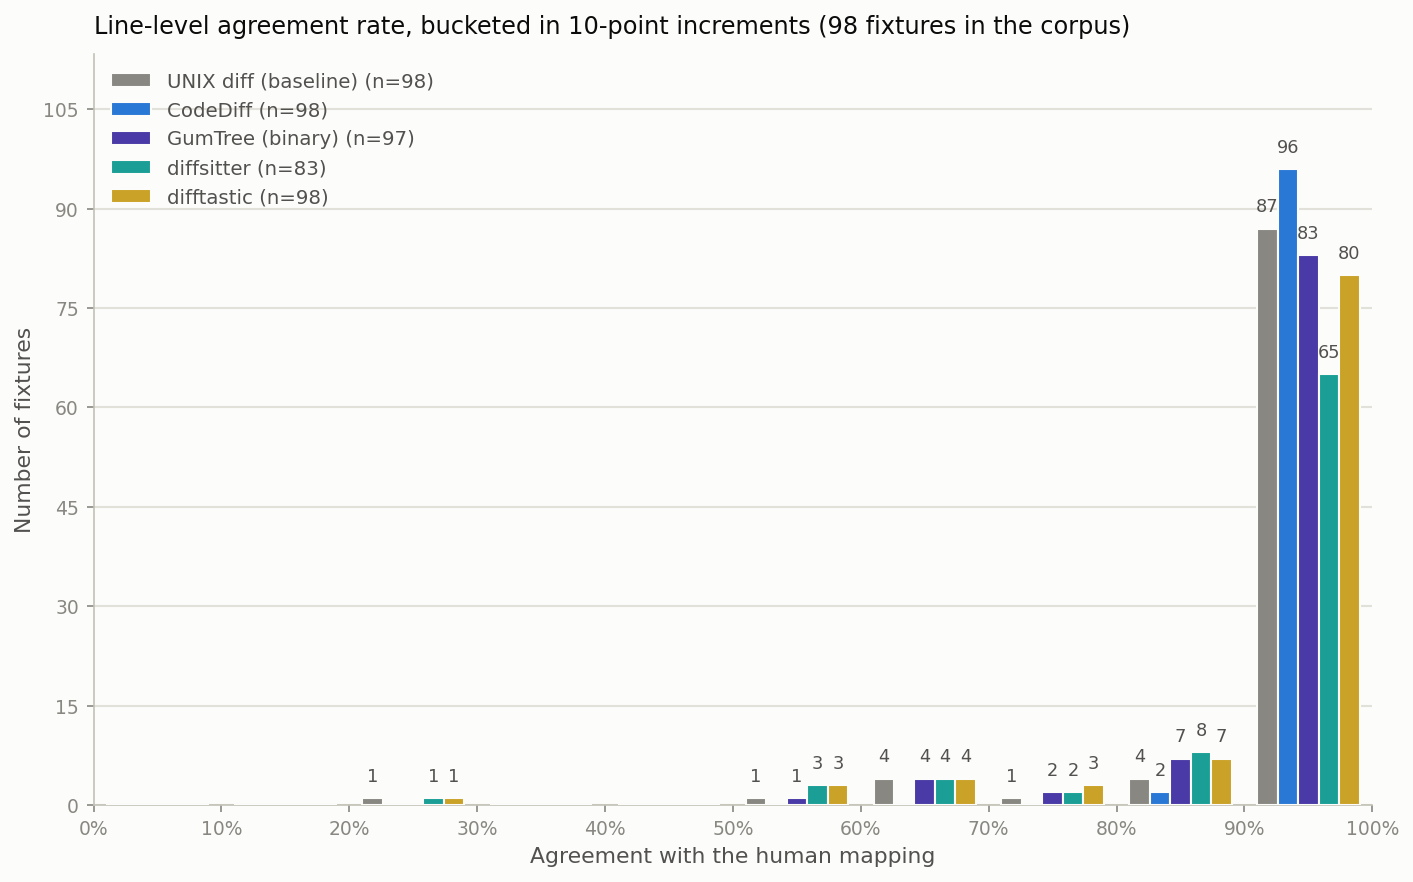
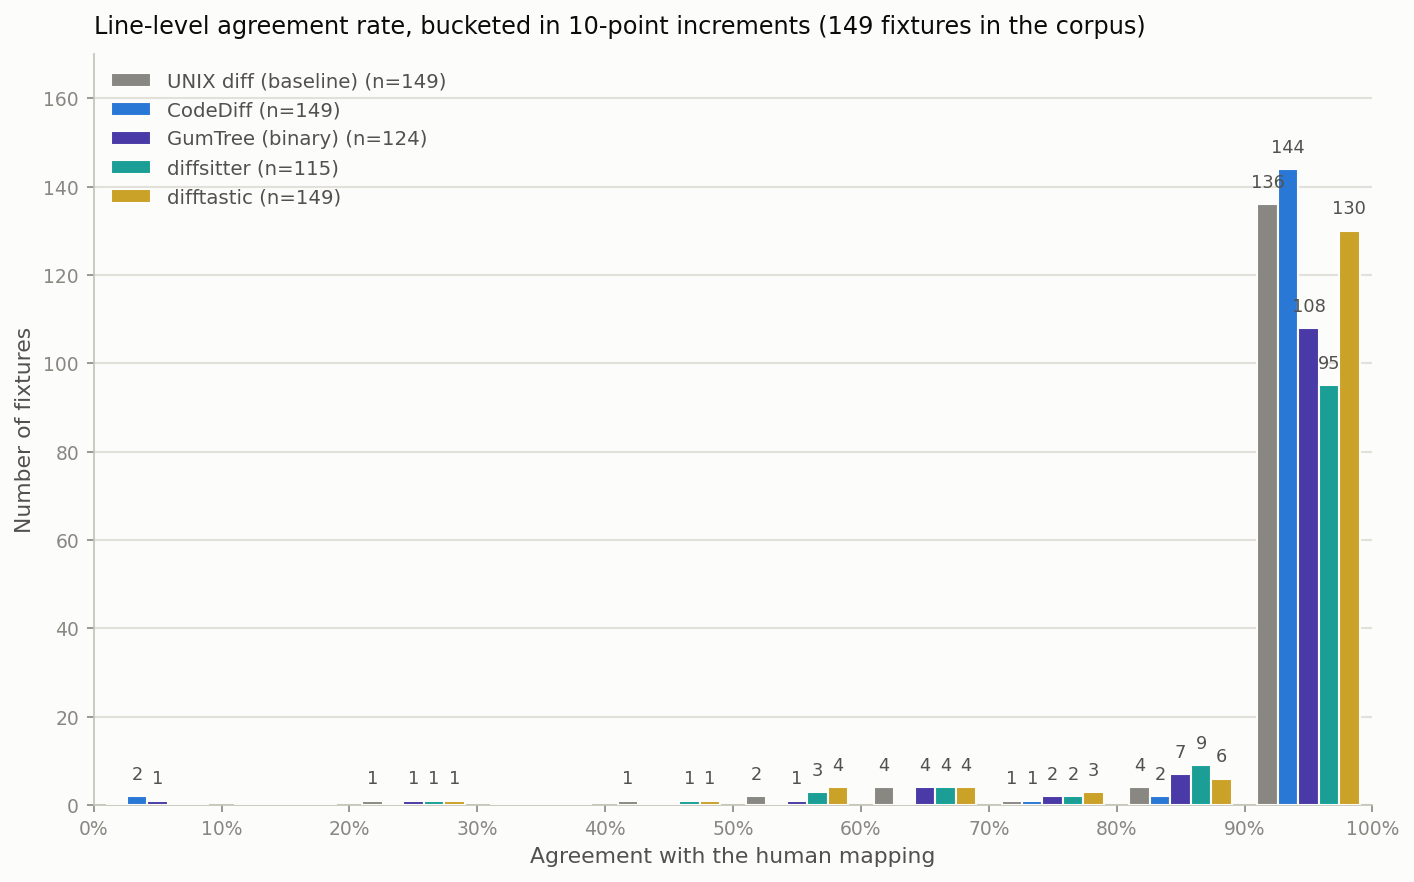
Add progress output to benchmark_other; refresh its charts/CSV
benchmark_other had zero progress output during a run that can take
several minutes (a fresh GumTree JVM per fixture, plus a whole-corpus
warm-batch pass) - added a per-repeat line for the warm-batch pass and
a [i/n] line per fixture in the main loop, both to stderr so they stay
visible if stdout is redirected to a file for later inspection.

Refreshed research/benchmark_other.csv and the two committed charts
(research/plots/benchmark_other_accuracy.png,
benchmark_other_runtime.png - both tracked despite research/plots/
being gitignored in general, since the introductory paper embeds
them) against the current 149-fixture corpus via `--repeats 1`
(single sample; the usual 3 wasn't needed just to unblock this run,
so the runtime numbers are noisier than usual - rerun with the
default repeats for a cleaner variance picture if needed). The
variance LaTeX table wasn't regenerated: computing it needs at least
2 repeats.

Claude-Session: https://claude.ai/code/session_012Hvi4ij4gJjGVYpH1A5cRg

diff --git a/src/bin/benchmark_other.rs b/src/bin/benchmark_other.rs
@@ -1105,7 +1105,16 @@ fn main() -> Result<()> {
     // `gumtree_warm_batch` re-parses/re-diffs the whole corpus inside one persistent JVM per call,
     // so each repeat here is a genuine independent wall-clock sample, not a cached replay.
     let mut gumtree_warm_runs: Vec<HashMap<String, f64>> = Vec::with_capacity(args.repeats);
-    for _ in 0..args.repeats {
+    for repeat in 0..args.repeats {
+        // This whole tool has no other progress output during a run that can easily take several
+        // minutes (a fresh GumTree JVM per fixture below, plus this whole-corpus warm-batch pass
+        // repeated `args.repeats` times) - stderr so it stays visible even when stdout/the final
+        // table is redirected to a file.
+        eprintln!(
+            "gumtree_warm_batch: repeat {}/{}...",
+            repeat + 1,
+            args.repeats
+        );
         match gumtree_warm_batch(&warm_fixtures)? {
             Some(results) => gumtree_warm_runs.push(results),
             // All-or-nothing per `Row::gumtree_warm_ms`'s doc comment: if the batch driver isn't
@@ -1118,7 +1127,8 @@ fn main() -> Result<()> {
 
     let started = std::time::Instant::now();
     let mut rows = Vec::with_capacity(names.len());
-    for name in &names {
+    for (i, name) in names.iter().enumerate() {
+        eprintln!("[{}/{}] {name}", i + 1, names.len());
         let (before, after) = test_diffs
             .get(name)
             .expect("name came from test_diffs.keys()");
